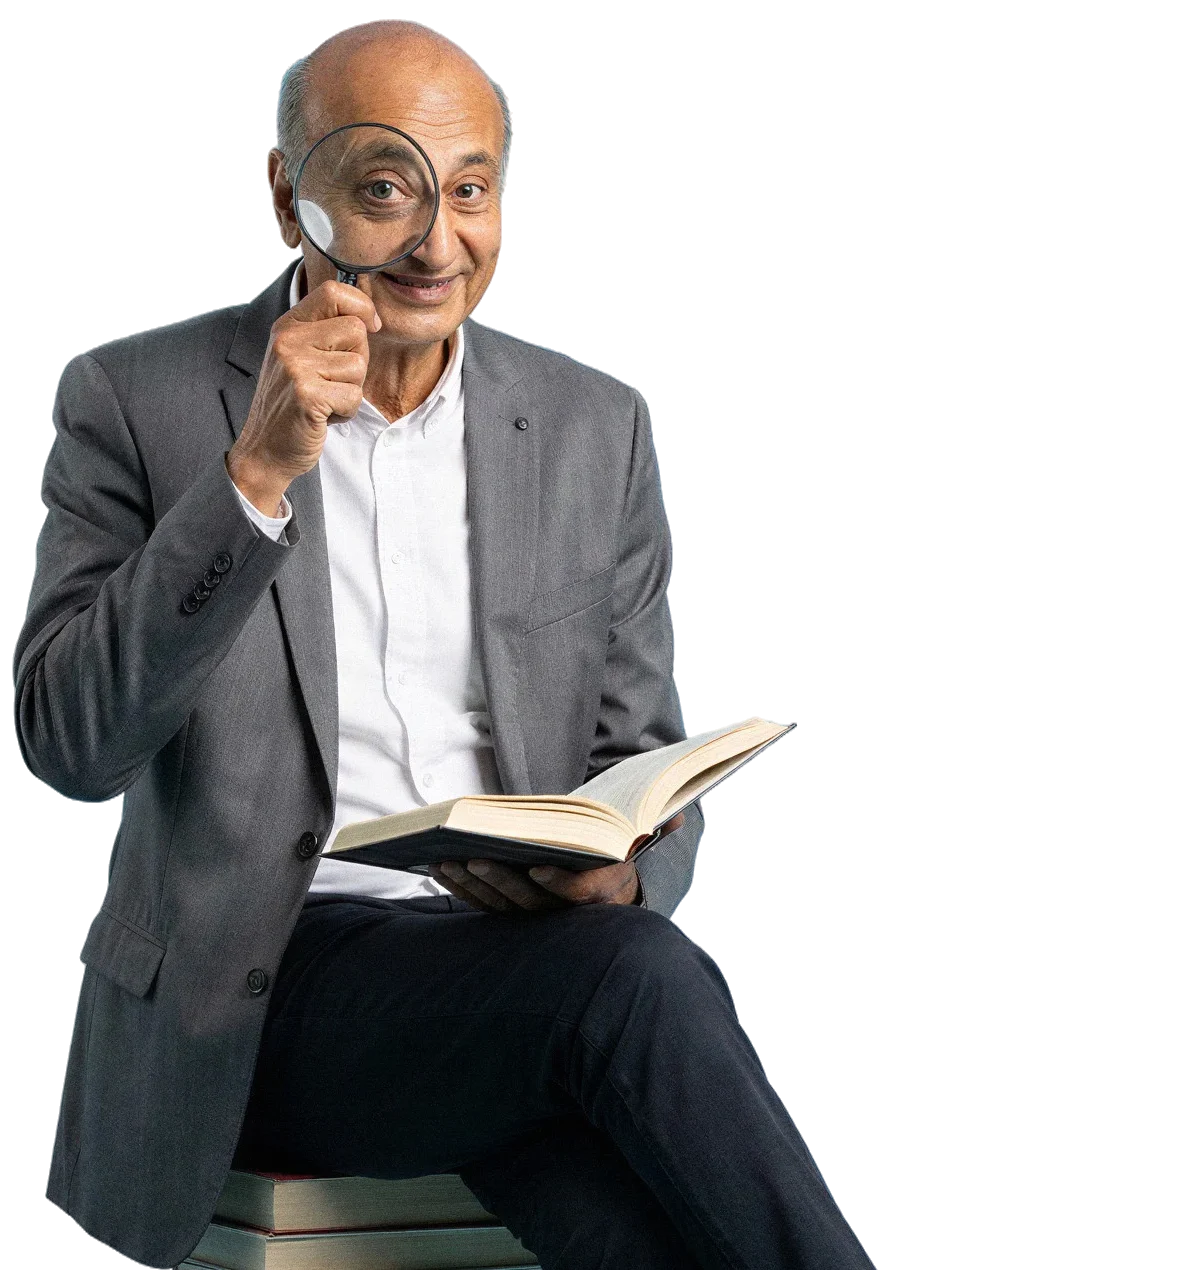
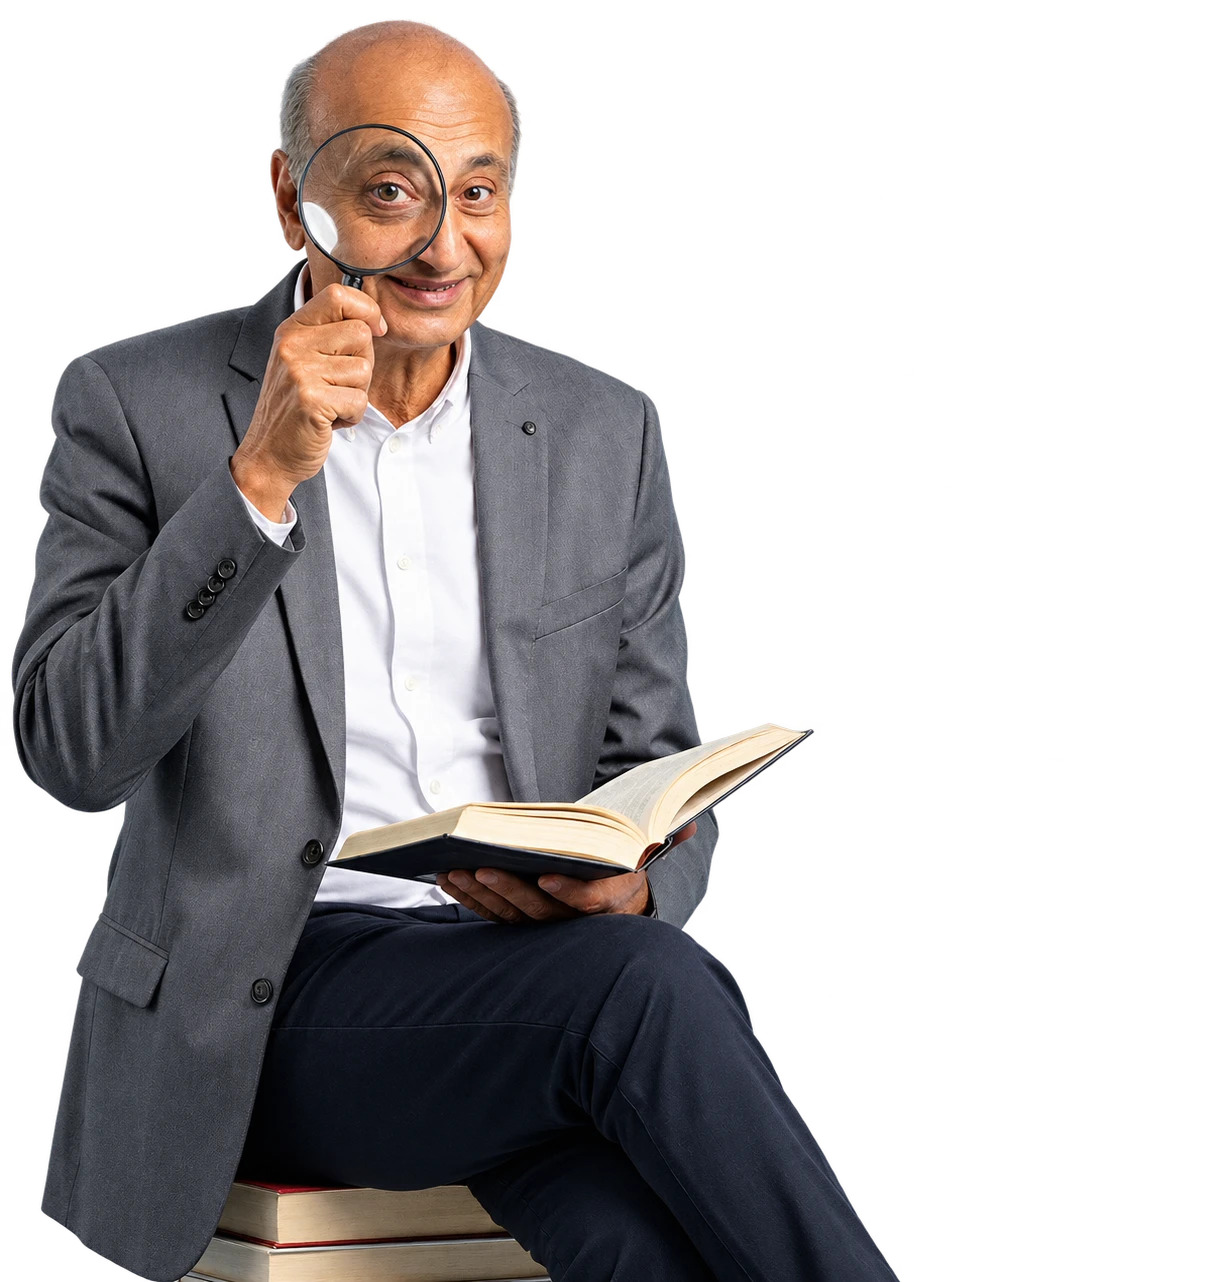
Hero portrait: brown eye under the loupe, sharper detail (edited in ChatGPT)

diff --git a/index.html b/index.html
@@ -25,7 +25,7 @@ addEventListener('error',function(){d.classList.add('r-fail')});
 </script>
 <link rel="preconnect" href="https://fonts.googleapis.com"><link rel="preconnect" href="https://fonts.gstatic.com" crossorigin>
 <link href="https://fonts.googleapis.com/css2?family=Assistant:wght@200..800&family=Karantina:wght@700&family=Oswald:wght@200..700&family=Source+Sans+3:wght@200..900&display=swap" rel="stylesheet">
-<link rel="preload" href="assets/yuri-closeup.webp" as="image">
+<link rel="preload" href="assets/yuri-closeup.webp?v=2" as="image">
 <link rel="stylesheet" href="assets/site.css">
 </head>
 <body>
@@ -72,7 +72,7 @@ addEventListener('error',function(){d.classList.add('r-fail')});
       </div>
       <h1 id="h1" class="hero-h1 r"><span class="sr">Юрий Моор-Мурадов. </span>Как это<br> сказать на<br> иврите?</h1>
       <a class="btn hero-cta r" href="#books">Выбрать книгу <span aria-hidden="true">→</span></a>
-      <img class="hero-yuri" src="assets/yuri-closeup.webp" alt="Юрий Моор-Мурадов с лупой у глаза и открытой книгой в руках" width="1200" height="1270" fetchpriority="high">
+      <img class="hero-yuri" src="assets/yuri-closeup.webp?v=2" alt="Юрий Моор-Мурадов с лупой у глаза и открытой книгой в руках" width="1227" height="1282" fetchpriority="high">
       <div class="hero-side">
         <p class="hero-name r">Юрий Моор-Мурадов</p>
         <p class="lead r">Живой иврит, объяснённый по-русски и с&nbsp;юмором. Восемь книг с&nbsp;ответами.</p>
